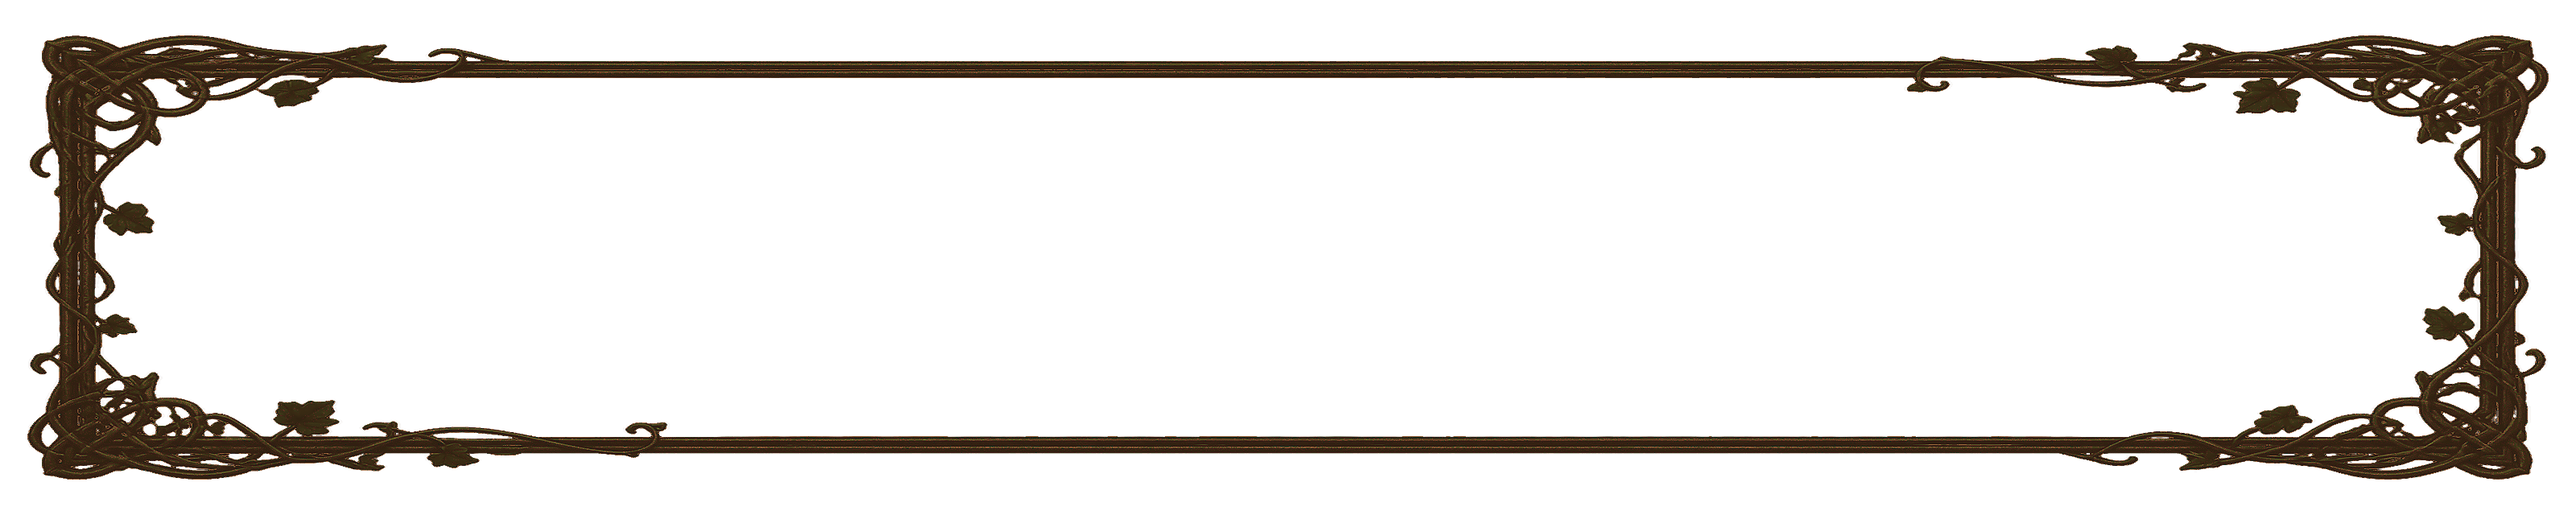
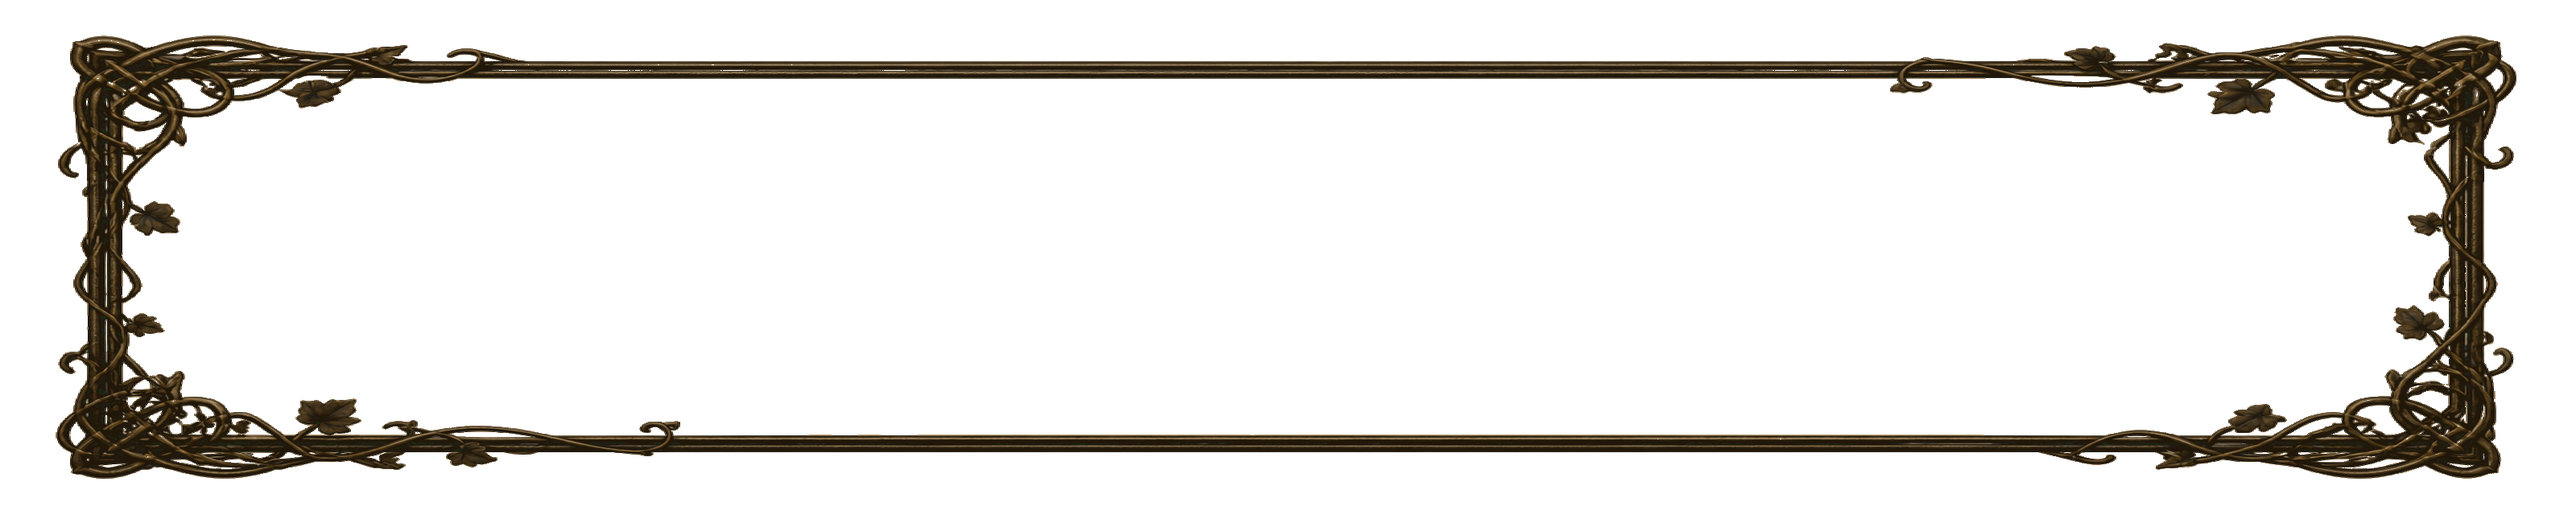
Harden level frame artwork

Changed region(s): [[0.0, 0.0625, 1.0, 0.9375]]

diff --git a/src/app/globals.css b/src/app/globals.css
@@ -304,7 +304,7 @@ h3,
 }
 
 .character-level-frame-2::before {
-  --level-frame-opacity: .97;
+  --level-frame-opacity: 1;
 }
 
 .character-level-frame-3::after {
